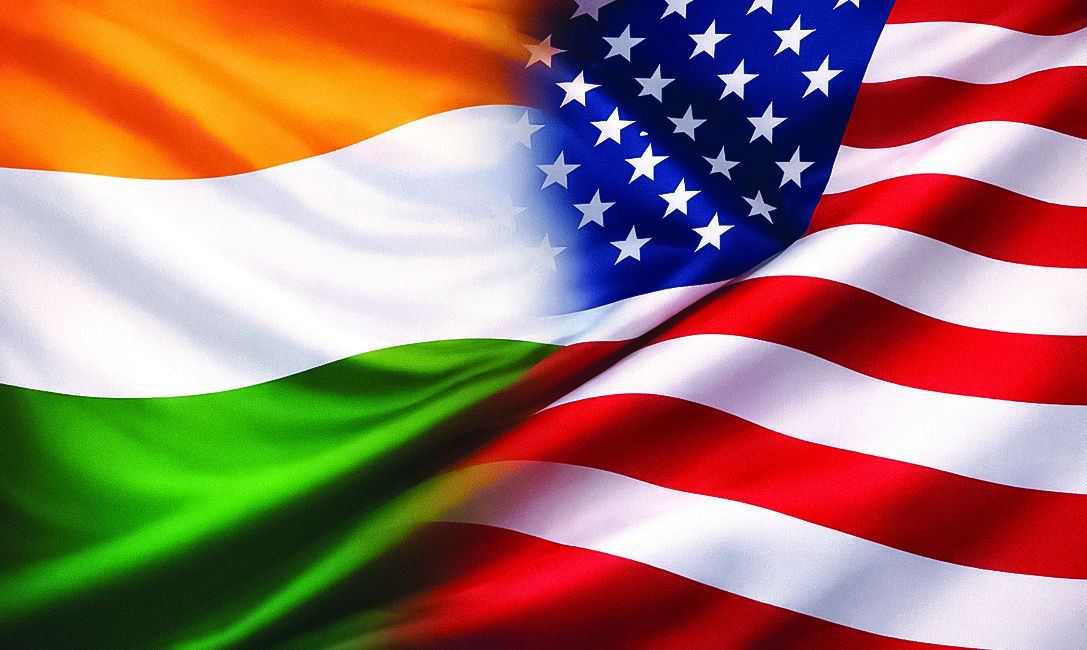
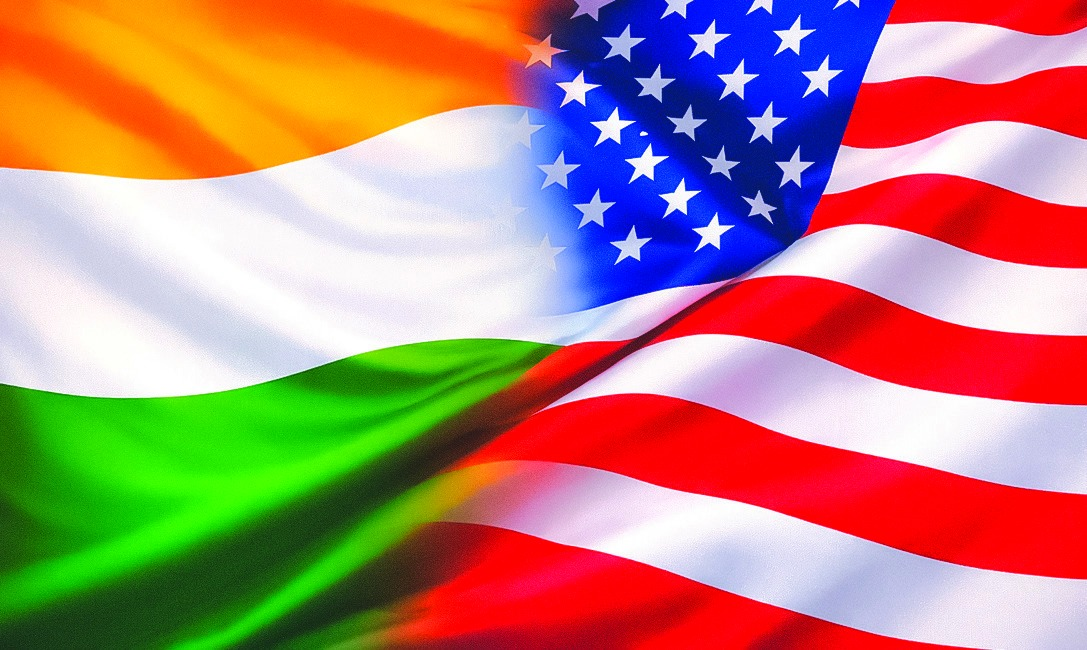
all new features updated rev 1.1

diff --git a/src/routes/about.tsx b/src/routes/about.tsx
@@ -132,9 +132,6 @@ function About() {
       </Section>
 
       <Section id="venture" tone="ink" className="relative isolate overflow-hidden">
-        {/* The two flags carry the joint venture faster than the copy does, so
-            they sit behind the section — heavily damped, since the section's
-            job is still to be readable. */}
         <img
           src={ventureImg}
           alt=""
@@ -142,25 +139,46 @@ function About() {
           loading="lazy"
           width={1087}
           height={650}
-          className="absolute inset-0 -z-10 h-full w-full object-cover opacity-60"
+          // Background only from md up. On a narrow, tall band `cover` crops so
+          // hard that the flags become colour blur, so small screens get the
+          // in-flow banner below instead.
+          className="absolute inset-0 -z-10 hidden h-full w-full object-cover md:block"
         />
-        {/* Directional scrim: heaviest under the copy on the left, where white
-            type would otherwise land on the flag's white stripe, and thin on
-            the right so the flags stay legible as flags. */}
-        <div className="absolute inset-0 -z-10 bg-gradient-to-r from-ink via-ink/80 to-ink/35" />
+        {/* Even, light scrim only. An earlier left-heavy gradient sat exactly
+            over the Indian flag and crushed it; contrast for the type is
+            handled by the panels below instead, so both flags stay bright. */}
         <div className="absolute inset-0 -z-10 bg-ink/25" />
+        {/* Seams into the light sections above and below. */}
+        <div className="absolute inset-x-0 top-0 -z-10 h-24 bg-gradient-to-b from-ink/70 to-transparent" />
+        <div className="absolute inset-x-0 bottom-0 -z-10 h-24 bg-gradient-to-t from-ink/70 to-transparent" />
+
         <Container className="relative">
-          <SectionHeading
-            tone="dark"
-            eyebrow="Two countries, one team"
-            title={`${company.venture.long}.`}
-            aside={company.venture.copy}
+          <img
+            src={ventureImg}
+            alt="The flags of India and the United States"
+            loading="lazy"
+            width={1087}
+            height={650}
+            className="mb-6 aspect-[16/9] w-full rounded-sm border border-ink-foreground/15 object-cover shadow-lift md:hidden"
           />
-          <Reveal className={`${HEADING_GAP} grid gap-px bg-ink-foreground/10 md:grid-cols-2`}>
+
+          {/* The heading carries its own plate rather than darkening the whole
+              band — white type would otherwise land on the flag's white
+              stripes, which is the one place it cannot be read. */}
+          <div className="max-w-4xl rounded-sm bg-ink/80 p-8 shadow-lift backdrop-blur-md md:p-10">
+            <SectionHeading
+              tone="dark"
+              eyebrow="Two countries, one team"
+              title={`${company.venture.long}.`}
+              aside={company.venture.copy}
+            />
+          </div>
+
+          <Reveal className="mt-6 grid gap-6 md:grid-cols-2">
             {ventureSides.map((side) => (
               <div
                 key={side.place}
-                className="group flex flex-col bg-ink/85 p-8 backdrop-blur-md md:p-10"
+                className="group flex flex-col rounded-sm bg-ink/80 p-8 shadow-lift backdrop-blur-md md:p-10"
               >
                 <IconChip icon={side.icon} variant="outline-dark" />
                 <p className="eyebrow mt-6 text-cyan">{side.place}</p>
@@ -182,8 +200,8 @@ function About() {
               <Portrait name={leadership.name} className="mx-auto max-w-sm lg:mx-0" />
             </div>
 
-            {/* Stops short of col 12: the fixed section rail sits over the
-                right edge of the container on xl. */}
+            {/* Stops short of col 12 to keep the measure readable — a full
+                eight columns runs past 110 characters a line. */}
             <div className="lg:col-span-7 xl:col-span-6">
               <h3 className="font-display text-3xl font-bold">{leadership.name}</h3>
               <p className="mt-2 flex flex-wrap items-center gap-x-3 gap-y-1 text-sm text-muted-foreground">

diff --git a/src/components/site/SectionRail.tsx b/src/components/site/SectionRail.tsx
@@ -31,7 +31,11 @@ export function SectionRail({ sections }: { sections: RailSection[] }) {
   return (
     <nav
       aria-label="On this page"
-      className="pointer-events-none fixed right-6 top-1/2 z-40 hidden -translate-y-1/2 xl:block"
+      // Only rendered once the viewport is wide enough to give the rail its own
+      // gutter. The content container is 1280px, the rail about 180px plus its
+      // offset, so anything under ~1700px would put it on top of the text —
+      // which is exactly what it used to do at xl.
+      className="pointer-events-none fixed right-6 top-1/2 z-40 hidden w-44 -translate-y-1/2 min-[1700px]:block"
     >
       <ul className="pointer-events-auto flex flex-col gap-1 rounded-sm border border-border/70 bg-background/85 p-2 shadow-panel backdrop-blur-xl">
         {sections.map((s) => (
